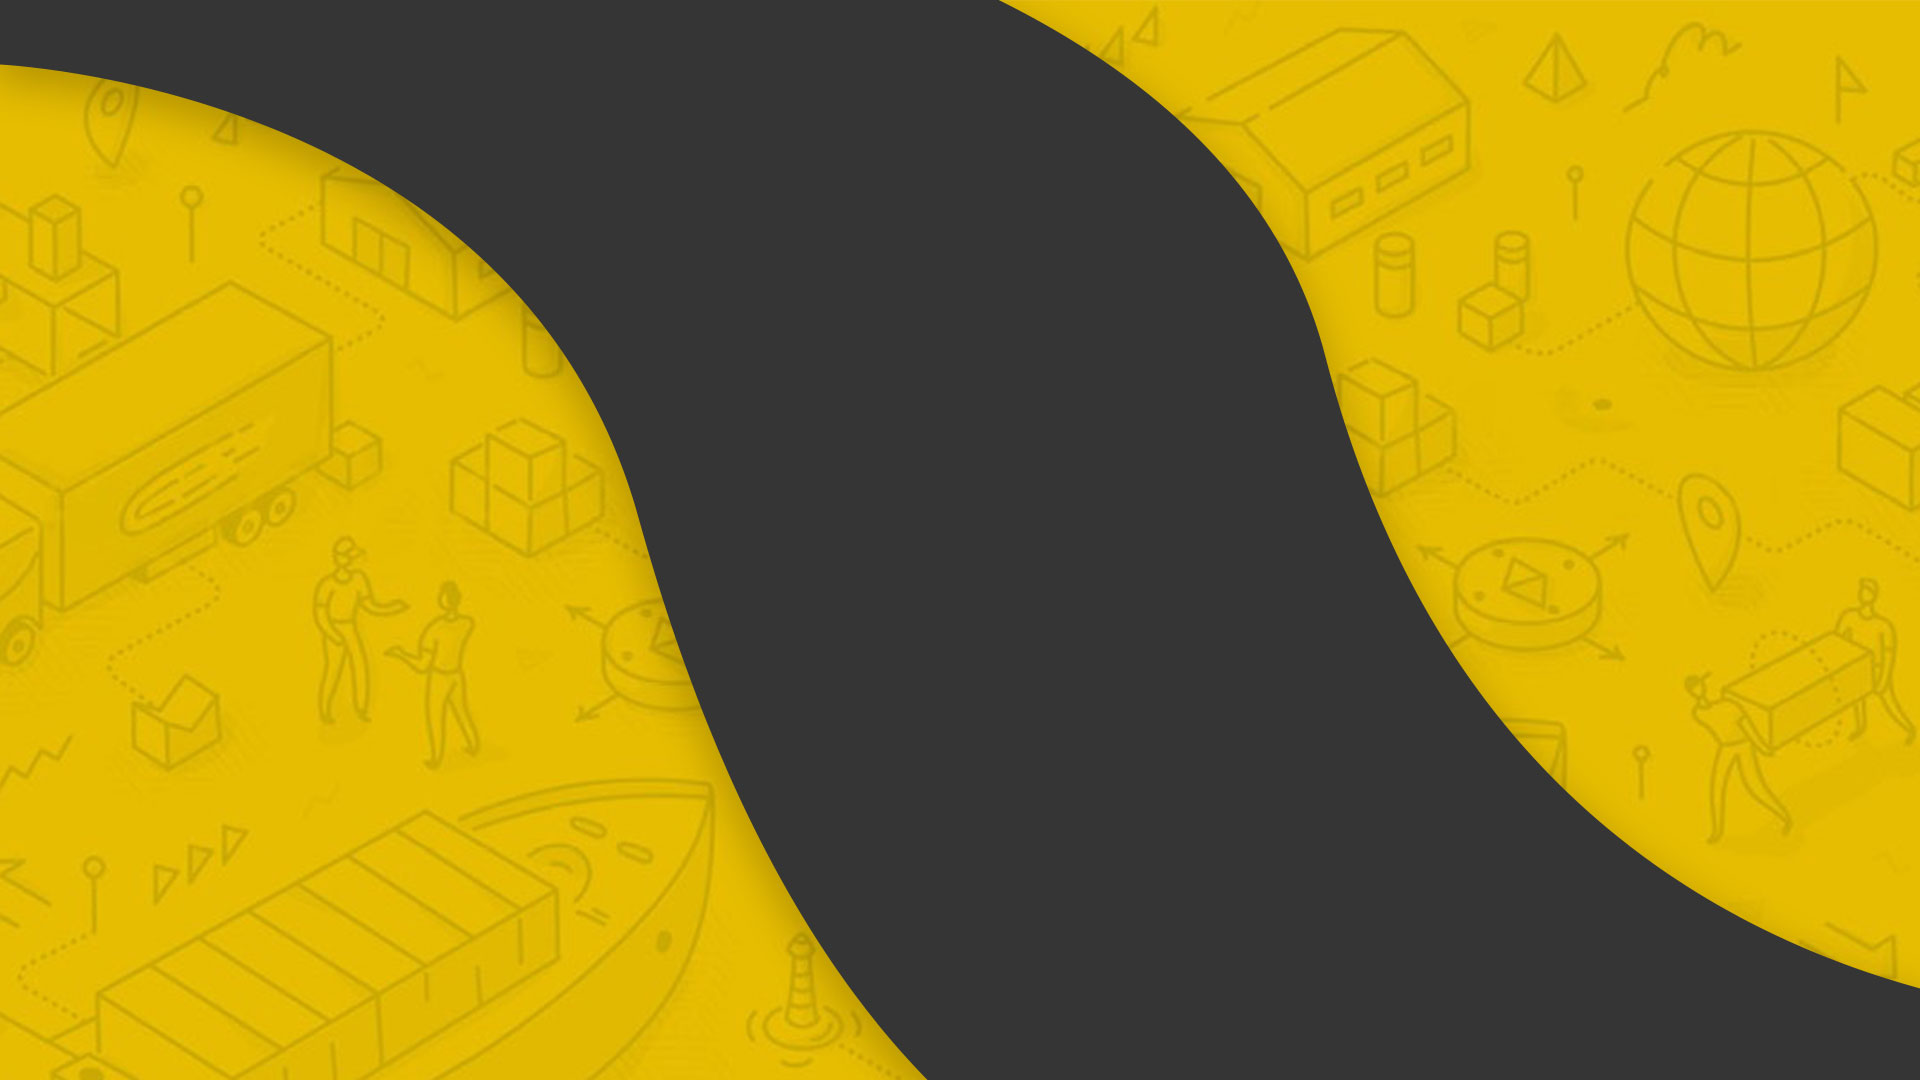
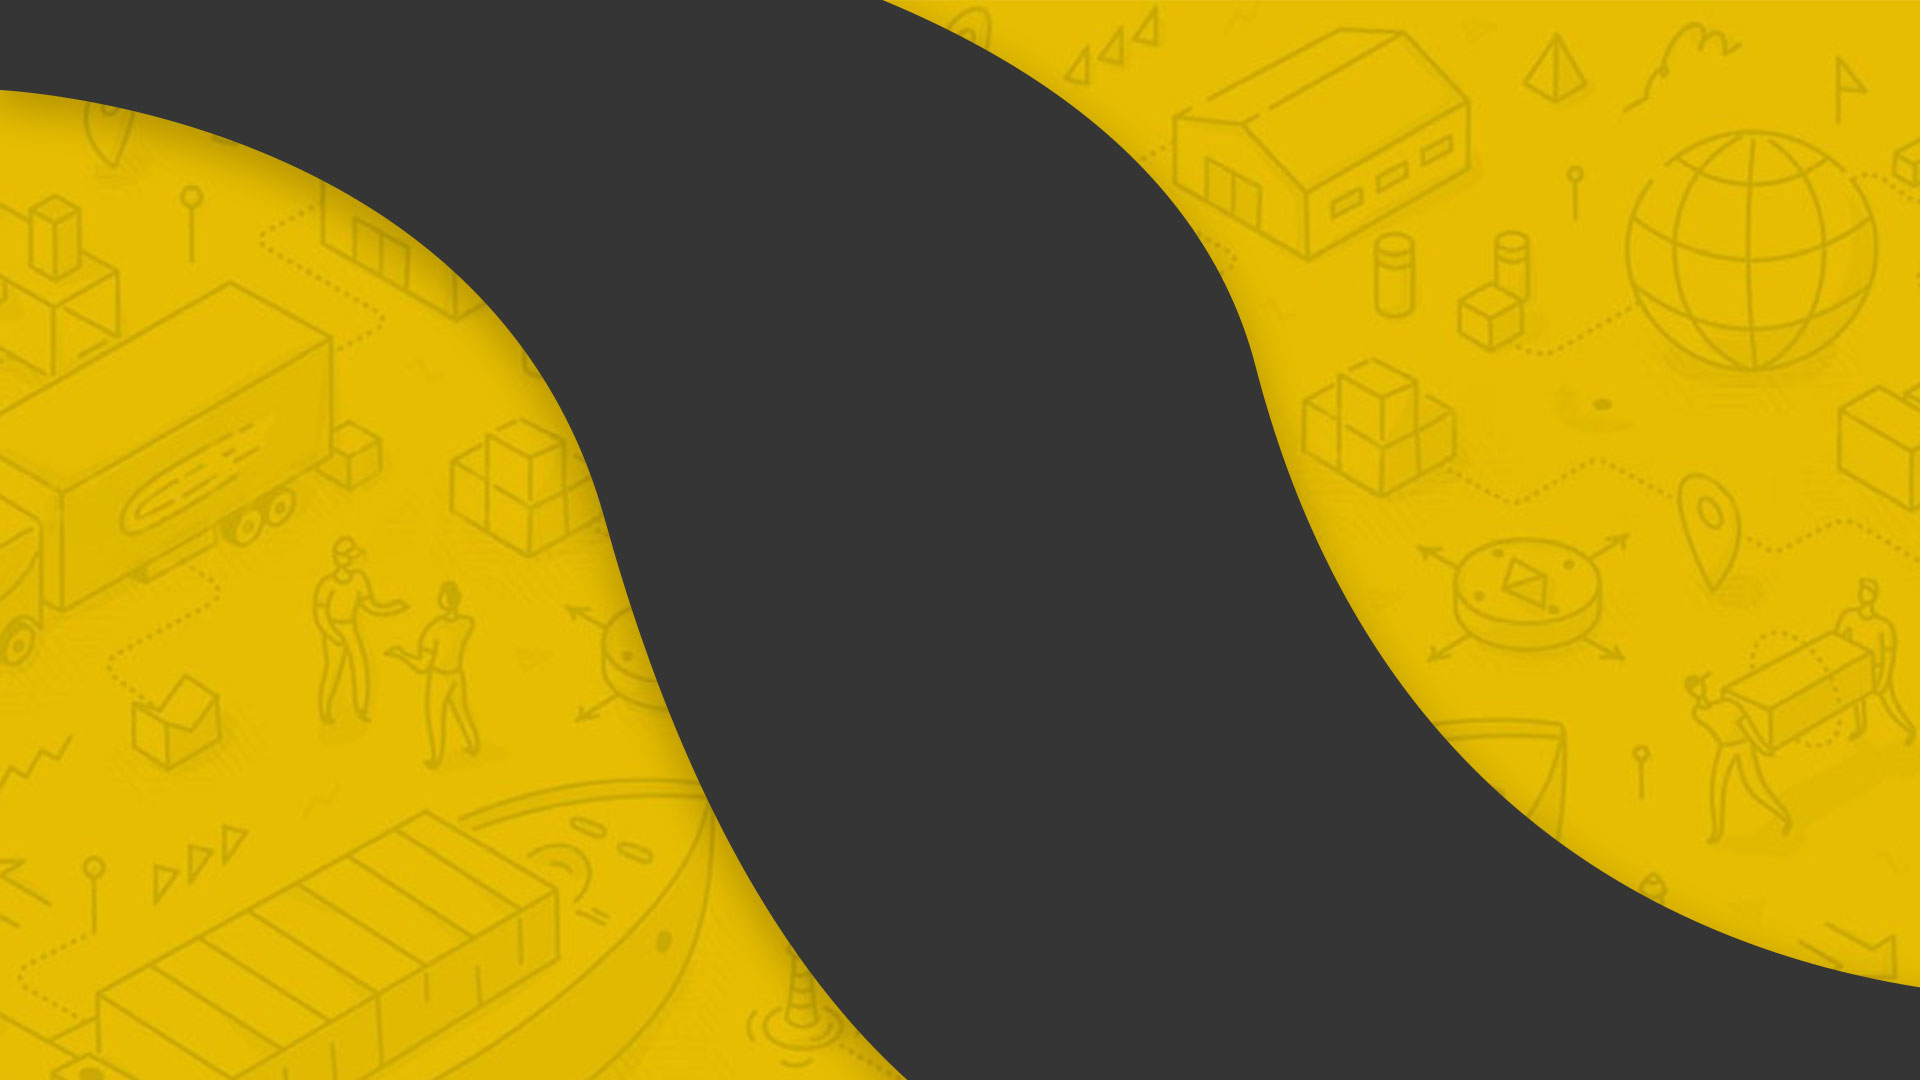
efaz

Changed region(s): [[0.4688, 0.0, 0.9375, 0.8861], [0.0, 0.0611, 0.5, 1.0], [0.9375, 0.8861, 1.0, 0.9167]]

diff --git a/Top logicstics europe/style.css b/Top logicstics europe/style.css
@@ -7,11 +7,11 @@
 
 :root {
   --main-color:#ebc300 ;                /*Couleur principale du salon*/	
-  --main-image: url(img/Image_de_fond_jaune2.jpg);  /*Fond image du thème*/ 	
+  --main-image: url(img/Image_de_fond_jaune3.jpg);  /*Fond image du thème*/ 	
   --fond-logo:rgba(255,255,255,0.5);    /*Fond blanc flou du logo*/
-  --color-hero: #ffffff;   /*** Couleur du texte du héro, h1, date... ***/
+  --color-hero: #000000;   /*** Couleur du texte du héro, h1, date... ***/
 	
-  --basic-color: #ffffff;               /*Couleur de base du texte, par défaut : #ffffff */ 	
+  --basic-color: #202020;               /*Couleur de base du texte, par défaut : #ffffff */ 	
   --main-animation-transition : ease-in 0.5s; /* Animation hover */
   --content-imagetexte: url(img/Image_de_fond_blanc.jpg); /*** Image du contenu avec texte à droite ***/
 }
@@ -38,7 +38,7 @@ html, body {
 .header{
     min-height: 50px;
     width: 80%;
-    background: #202020;
+    background: #ffffff;
     margin: auto !important;
     z-index: 99;
     position: relative;
@@ -150,7 +150,7 @@ html, body {
   background: #f4f4f4 ;
   background-position: center center !important;
   background-repeat: no-repeat !important;
-  background-size: 137% !important;
+  background-size: cover !important;
   height: 100vh;
   margin-bottom: 1em;
   background: var(--main-image);
@@ -246,7 +246,7 @@ min-width: 15%;
         margin: 30px auto 0 auto;
 }
 .ctaprincipal.cta2{
-    background: var(--main-color);
+    background: #ffffff;
     color: #202020;
     margin-left: 20px;
 }
@@ -519,7 +519,7 @@ textarea:focus{
     font-size: 1.1em;
 }
 .attentetitre{
-    color: #e4e4e4;
+    color: #202020;
 }
 /************ SLIDER **************/
 /* .slider{

diff --git a/Top logicstics europe/index.html b/Top logicstics europe/index.html
@@ -88,9 +88,9 @@
 	<div class="col" data-aos="fade-in" data-aos-delay="500">
 		<h2>1ère édition</h2>
 		<p>
-		- <strong>DEVELOPPER</strong>  vos opportunités business avec des rendez-vous ciblés et préprogrammés<br><br>
-		- <strong>ECHANGER</strong> avec efficacité dans un cadre privilégié<br><br>
-		- <strong>VALORISER</strong> votre entreprise et votre offre au sein de votre communauté<br><br>
+		<strong>DEVELOPPER</strong><br>  vos opportunités business avec des rendez-vous ciblés et préprogrammés<br><br>
+		<strong>ECHANGER</strong><br> avec efficacité dans un cadre privilégié<br><br>
+		<strong>VALORISER</strong><br> votre entreprise et votre offre au sein de votre communauté<br><br>
 		</p>
 	</div>
 </div>
